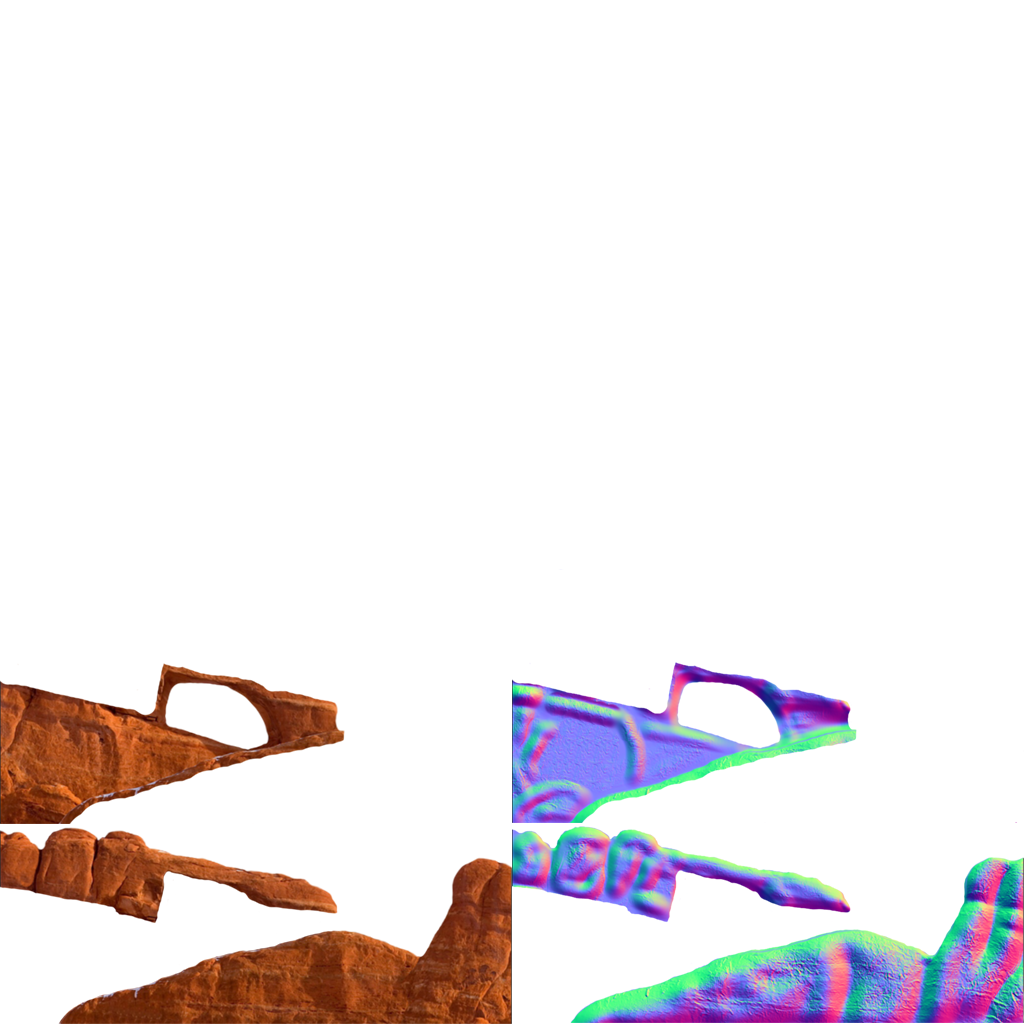
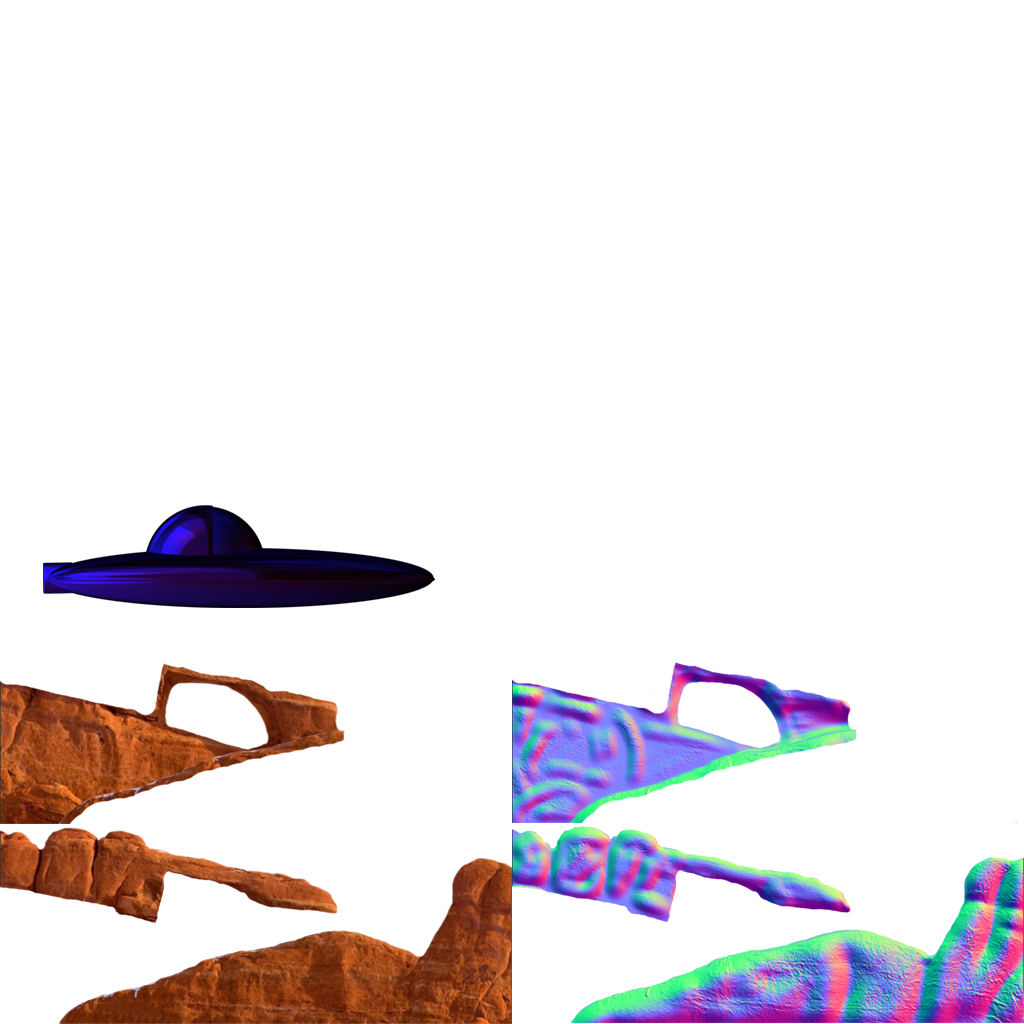
Saucer fly OK

Changed region(s): [[0.0312, 0.4688, 0.4375, 0.5938], [0.5312, 0.6562, 0.625, 0.7812]]

diff --git a/core/src/com/thommil/softbuddy/levels/mountain/Level01.java b/core/src/com/thommil/softbuddy/levels/mountain/Level01.java
@@ -11,6 +11,7 @@ import com.badlogic.gdx.utils.Array;
 import com.thommil.libgdx.runtime.Runtime;
 import com.thommil.libgdx.runtime.actor.Actor;
 import com.thommil.libgdx.runtime.actor.graphics.BitmapFontActor;
+import com.thommil.libgdx.runtime.actor.graphics.SpriteActor;
 import com.thommil.libgdx.runtime.actor.graphics.StaticActor;
 import com.thommil.libgdx.runtime.actor.physics.StaticBodyActor;
 import com.thommil.libgdx.runtime.graphics.TextureSet;
@@ -30,13 +31,25 @@ public class Level01 extends Level{
 
     private static final String RESOURCES_FILE = "chapters/mountain/level01/resources.json";
 
+    protected final static String FLYINGSAUCER_IMAGE_NAME = "flying_saucer";
+
     private float levelWorldWidth;
     private float levelWorldHeight;
 
     private float time;
 
+    private final static int STATE_INIT = 0;
+    private final static int STATE_TITLE = 1;
+    private final static int STATE_SCROLL_DOWN = 2;
+    private final static int STATE_SAUCER_FLY = 3;
+    private final static int STATE_SUNRISE = 4;
+    private final static int STATE_SAUCER_CRASH = 5;
+    private final static int STATE_PLAY = 6;
+
+    private int state = STATE_TITLE;
+
     private static final float TITLE_FADE_START = 2f;
-    private static final float TITLE_FADE_PAUSE = TITLE_FADE_START + 2f;
+    private static final float TITLE_FADE_PAUSE = TITLE_FADE_START + 1f;
     private static final float TITLE_FADE_END = TITLE_FADE_PAUSE + 1f;
 
     private static final float SCROLL_DOWN_START = TITLE_FADE_END;
@@ -47,16 +60,16 @@ public class Level01 extends Level{
     private static final float[] SAUCER_FLY_AMBIENT_COLOR = new float[]{0.3f, 0.3f, 0.3f, 1f};
     private static final float[] SAUCER_FLY_SPOT_COLOR = new float[]{0,0,1f,1f};
     private static final float[] SAUCER_FLY_LEFT = new float[]{-20f, 3f};
-    private static final float[] SAUCER_FLY_RIGHT = new float[]{20, 3f};
+    private static final float[] SAUCER_FLY_RIGHT = new float[]{20f, 3f};
     private static final float[] SAUCER_FLY_SPOT_FALLOFF = new float[]{0.01f,0.1f,1f};
-    private static final float SAUCER_FLY_END = SAUCER_FLY_START + 1f;
+    private static final float SAUCER_FLY_END = SAUCER_FLY_START + 5f;
 
     private static final float SUNRISE_START = SAUCER_FLY_END + 2f;
     private static final float[] SUNRISE_AMBIENT_COLOR_START = new float[]{0.3f, 0.3f, 0.3f, 1f};
     private static final float[] SUNRISE_AMBIENT_COLOR_END = new float[]{0.6f, 0.6f, 0.6f, 1f};
-    private static final float[] SUNRISE_SPOT_COLOR = new float[]{1f,0.9f,1f,1f};
-    private static final float[] SUNRISE_BOTTOM = new float[]{100f, -20f};
-    private static final float[] SUNRISE_TOP = new float[]{-20f, 20f};
+    private static final float[] SUNRISE_SPOT_COLOR = new float[]{1f,1f,1f,1f};
+    private static final float[] SUNRISE_BOTTOM = new float[]{40f, -10f};
+    private static final float[] SUNRISE_TOP = new float[]{-40f, 30f};
     private static final float[] SUNRISE_SPOT_FALLOFF = new float[]{1f,0f,0f};
     private static final float SUNRISE_END = SUNRISE_START + 10f;
 
@@ -68,13 +81,24 @@ public class Level01 extends Level{
     private Vector2 tmpVectorFrom;
     private Vector2 tmpVectorTo;
 
+    //Tick
     private Layer ticklayer;
+
+    //Sky
     private SkyLayer skyLayer;
-    private BitmapFontBatchLayer bitmapFontBatchLayer;
+
+    //Background & Foreground
     private SpriteBatchLayer backgroundLayer;
     private SpriteBatchLayer foregroundLayer;
-
     private IntroRenderer introRenderer;
+
+    //Sprites
+    private SpriteBatchLayer saucerLayer;
+    private SpriteActor flyingSaucerActor;
+
+    //HUD
+    private BitmapFontBatchLayer bitmapFontBatchLayer;
+    private BitmapFontActor titleFontActor;
 
     @Override
     public String getResourcesPath() {
@@ -83,6 +107,7 @@ public class Level01 extends Level{
 
     @Override
     public void reset() {
+        this.state = STATE_INIT;
         this.time = 0;
         this.tick(0);
     }
@@ -124,22 +149,12 @@ public class Level01 extends Level{
         this.introRenderer = new IntroRenderer(1);
         this.buildBackground();
         this.buildForeground();
+        this.buildHUD();
     }
 
     protected void buildBackground() {
         this.skyLayer = new SkyLayer(Runtime.getInstance().getViewport(), true, SkyLayer.MIDNIGHT, -this.levelWorldWidth/2, -this.levelWorldHeight/4, this.levelWorldWidth, this.levelWorldHeight,this.levelWorldHeight/4);
         Runtime.getInstance().addLayer(this.skyLayer);
-
-        final SharedResources.LabelDef titleLableDef = this.softBuddyGameAPI.getSharedResources().getLabelDef(Chapter.TITLE_LABEL);
-        final BitmapFontActor titleFontActor = new BitmapFontActor(0, this.assetManager.get(titleLableDef.assetName, BitmapFont.class));
-        titleFontActor.setText(this.chapterResources.getChapterDef().title);
-        tmpVectorFrom.set(titleLableDef.position[0], titleLableDef.position[1]);
-        ViewportLayout.adaptToScreen(SoftBuddyGameAPI.REFERENCE_SCREEN, tmpVectorFrom);
-        titleFontActor.setPosition(tmpVectorFrom.x, tmpVectorFrom.y);
-        titleFontActor.getBitmapFont().setColor(titleLableDef.color[0],titleLableDef.color[1],titleLableDef.color[2],0);
-        this.bitmapFontBatchLayer = new BitmapFontBatchLayer(Runtime.getInstance().getViewport(), 1);
-        this.bitmapFontBatchLayer.addActor(titleFontActor);
-        Runtime.getInstance().addLayer(this.bitmapFontBatchLayer);
 
         this.backgroundLayer = new SpriteBatchLayer(Runtime.getInstance().getViewport(),1,this.introRenderer);
         final RubeLoader.ImageDef backgroundImageDef = this.levelResources.getImageDefinition(BACKGROUND_IMAGE_NAME);
@@ -189,22 +204,43 @@ public class Level01 extends Level{
 
         this.foregroundLayer.addActor(foregroundStaticBodyActor);
         Runtime.getInstance().addLayer(this.foregroundLayer);
+
+        this.saucerLayer = new SpriteBatchLayer(Runtime.getInstance().getViewport(),1);
+        final RubeLoader.ImageDef flyingSaucerImageDef = this.levelResources.getImageDefinition(FLYINGSAUCER_IMAGE_NAME);
+        this.flyingSaucerActor = new SpriteActor(FLYINGSAUCER_IMAGE_NAME.hashCode(), new TextureSet(this.assetManager.get(flyingSaucerImageDef.path, Texture.class))
+                ,flyingSaucerImageDef.regionX
+                ,flyingSaucerImageDef.regionY
+                ,flyingSaucerImageDef.regionWidth
+                ,flyingSaucerImageDef.regionHeight);
+        flyingSaucerActor.setSize(flyingSaucerImageDef.width, flyingSaucerImageDef.height);
+        flyingSaucerActor.setOriginCenter();
+        Runtime.getInstance().addLayer(this.saucerLayer);
     }
 
+    private void buildHUD(){
+        final SharedResources.LabelDef titleLableDef = this.softBuddyGameAPI.getSharedResources().getLabelDef(Chapter.TITLE_LABEL);
+        this.titleFontActor = new BitmapFontActor(0, this.assetManager.get(titleLableDef.assetName, BitmapFont.class));
+        titleFontActor.setText(this.chapterResources.getChapterDef().title);
+        tmpVectorFrom.set(titleLableDef.position[0], titleLableDef.position[1]);
+        ViewportLayout.adaptToScreen(SoftBuddyGameAPI.REFERENCE_SCREEN, tmpVectorFrom);
+        titleFontActor.setPosition(tmpVectorFrom.x, tmpVectorFrom.y);
+        titleFontActor.getBitmapFont().setColor(titleLableDef.color[0],titleLableDef.color[1],titleLableDef.color[2],0);
+        this.bitmapFontBatchLayer = new BitmapFontBatchLayer(Runtime.getInstance().getViewport(), 1);
+        this.bitmapFontBatchLayer.addActor(titleFontActor);
+        Runtime.getInstance().addLayer(this.bitmapFontBatchLayer);
+    }
 
     @Override
     public void dispose() {
+        Runtime.getInstance().removeLayer(this.ticklayer);
+        Runtime.getInstance().removeLayer(this.skyLayer);
         Runtime.getInstance().removeLayer(this.foregroundLayer);
         Runtime.getInstance().removeLayer(this.backgroundLayer);
+        Runtime.getInstance().removeLayer(this.saucerLayer);
         Runtime.getInstance().removeLayer(this.bitmapFontBatchLayer);
-        Runtime.getInstance().removeLayer(this.skyLayer);
-        Runtime.getInstance().removeLayer(this.ticklayer);
+
         this.ticklayer.dispose();
         this.skyLayer.dispose();
-        for(final Actor actor : this.bitmapFontBatchLayer.listActors()){
-            actor.dispose();
-        }
-        this.bitmapFontBatchLayer.dispose();
         for(final Actor actor : this.backgroundLayer.listActors()){
             actor.dispose();
         }
@@ -213,101 +249,117 @@ public class Level01 extends Level{
             actor.dispose();
         }
         this.foregroundLayer.dispose();
+        for(final Actor actor : this.saucerLayer.listActors()){
+            actor.dispose();
+        }
         this.introRenderer.dispose();
+        this.saucerLayer.dispose();
+        for(final Actor actor : this.bitmapFontBatchLayer.listActors()){
+            actor.dispose();
+        }
+        this.bitmapFontBatchLayer.dispose();
+
         this.ticklayer = null;
         this.skyLayer = null;
-        this.bitmapFontBatchLayer = null;
         this.backgroundLayer = null;
         this.foregroundLayer = null;
+        this.saucerLayer = null;
+        this.bitmapFontBatchLayer = null;
+
         this.introRenderer = null;
+        this.flyingSaucerActor = null;
         this.tmpVectorFrom = null;
         this.tmpVectorTo = null;
     }
 
     public void tick(float deltaTime){
         time += deltaTime;
-
-        //Reset
-        if(deltaTime == 0){
-            this.introRenderer.setAmbiantColor(SAUCER_FLY_AMBIENT_COLOR[0],SAUCER_FLY_AMBIENT_COLOR[1],SAUCER_FLY_AMBIENT_COLOR[2]);
-            this.introRenderer.setLightColor(SAUCER_FLY_SPOT_COLOR[0],SAUCER_FLY_SPOT_COLOR[1],SAUCER_FLY_SPOT_COLOR[2]);
-            this.introRenderer.switchLight(false);
-        }
-
-        // Intro mode
-        if(time < PLAY_START){
-            //Scroll state
-            if(time < SCROLL_DOWN_START){
-                if(this.bitmapFontBatchLayer.isHidden()) {
-                    this.bitmapFontBatchLayer.show();
-                }
+        switch(state){
+            case STATE_INIT :
+                this.introRenderer.setAmbiantColor(SAUCER_FLY_AMBIENT_COLOR[0],SAUCER_FLY_AMBIENT_COLOR[1],SAUCER_FLY_AMBIENT_COLOR[2]);
+                this.introRenderer.setLightColor(SAUCER_FLY_SPOT_COLOR[0],SAUCER_FLY_SPOT_COLOR[1],SAUCER_FLY_SPOT_COLOR[2]);
+                this.titleFontActor.getBitmapFont().getColor().a = 0f;
+                this.bitmapFontBatchLayer.addActor(this.titleFontActor);
+                state = STATE_TITLE;
+                this.tick(0);
+                break;
+            case STATE_TITLE :
                 if(time < TITLE_FADE_START){
-                    final float fadeTime = 1- ((TITLE_FADE_START - time) / TITLE_FADE_START);
-                    ((BitmapFontActor)this.bitmapFontBatchLayer.getActor(0)).getBitmapFont().getColor().a = fadeTime;
-                }
-                else if(time > TITLE_FADE_PAUSE){
-                    final float fadeTime = ((TITLE_FADE_END - time) / (TITLE_FADE_END - TITLE_FADE_PAUSE));
-                    ((BitmapFontActor)this.bitmapFontBatchLayer.getActor(0)).getBitmapFont().getColor().a = fadeTime;
-                }
-                Runtime.getInstance().getViewport().getCamera().position.set(0,levelWorldWidth/2,0);
-                Runtime.getInstance().getViewport().apply();
-            }
-            else if(time < SCROLL_DOWN_END){
-                if(!this.bitmapFontBatchLayer.isHidden()) {
-                    this.bitmapFontBatchLayer.hide();
-                }
-                final float scrollTime = ((SCROLL_DOWN_END - time) / (SCROLL_DOWN_END - SCROLL_DOWN_START));
-                this.skyLayer.setStarsOffset(0,this.skyLayer.getStarsYOffset()-SCROLL_DOWN_STEP);
-                Runtime.getInstance().getViewport().getCamera().position.set(0,(levelWorldWidth/2 * scrollTime),0);
-                Runtime.getInstance().getViewport().apply();
-            }
-            else{
-                if(Runtime.getInstance().getViewport().getCamera().position.y != 0){
-                    Runtime.getInstance().getViewport().getCamera().position.set(0,0,0);
+                    final float fadeTime = 1f - ((TITLE_FADE_START - time) / TITLE_FADE_START);
+                    this.titleFontActor.getBitmapFont().getColor().a = fadeTime;
+                    Runtime.getInstance().getViewport().getCamera().position.set(0,levelWorldWidth/2,0);
                     Runtime.getInstance().getViewport().apply();
                 }
-
-                //Fly state
-                if(time < SAUCER_FLY_END) {
+                else if(time >= TITLE_FADE_PAUSE){
+                    if(time < SCROLL_DOWN_START) {
+                        final float fadeTime = ((TITLE_FADE_END - time) / (TITLE_FADE_END - TITLE_FADE_PAUSE));
+                        this.titleFontActor.getBitmapFont().getColor().a = fadeTime;
+                        Runtime.getInstance().getViewport().getCamera().position.set(0, levelWorldWidth / 2, 0);
+                        Runtime.getInstance().getViewport().apply();
+                    }
+                    else{
+                        this.bitmapFontBatchLayer.removeActor(this.titleFontActor);
+                        state = STATE_SCROLL_DOWN;
+                    }
+                }
+                break;
+            case STATE_SCROLL_DOWN :
+                if(time < SCROLL_DOWN_END){
+                    final float scrollTime = ((SCROLL_DOWN_END - time) / (SCROLL_DOWN_END - SCROLL_DOWN_START));
+                    this.skyLayer.setStarsOffset(0,this.skyLayer.getStarsYOffset()-SCROLL_DOWN_STEP);
+                    Runtime.getInstance().getViewport().getCamera().position.set(0,(levelWorldWidth/2 * scrollTime),0);
+                    Runtime.getInstance().getViewport().apply();
+                }
+                else{
+                    Runtime.getInstance().getViewport().getCamera().position.set(0, 0, 0);
+                    Runtime.getInstance().getViewport().apply();
+                    flyingSaucerActor.setPosition(-1000,-1000);
+                    this.saucerLayer.addActor(this.flyingSaucerActor);
+                    this.introRenderer.switchLight(false);
+                    this.introRenderer.setFallOff(SAUCER_FLY_SPOT_FALLOFF[0], SAUCER_FLY_SPOT_FALLOFF[1], SAUCER_FLY_SPOT_FALLOFF[2]);
+                    state = STATE_SAUCER_FLY;
+                }
+                break;
+            case STATE_SAUCER_FLY :
+                if(time <= SAUCER_FLY_END) {
                     if (time > SAUCER_FLY_START) {
                         this.introRenderer.switchLight(true);
-                        this.introRenderer.setFallOff(SAUCER_FLY_SPOT_FALLOFF[0], SAUCER_FLY_SPOT_FALLOFF[1], SAUCER_FLY_SPOT_FALLOFF[2]);
-                        final float delta = 1 - ((SAUCER_FLY_END - time) / (SAUCER_FLY_END - SAUCER_FLY_START));
+                        final float delta = 1f - ((SAUCER_FLY_END - time) / (SAUCER_FLY_END - SAUCER_FLY_START));
                         this.tmpVectorFrom.set(SAUCER_FLY_LEFT[0], SAUCER_FLY_LEFT[1]);
                         this.tmpVectorTo.set(SAUCER_FLY_RIGHT[0], SAUCER_FLY_RIGHT[1]);
                         this.tmpVectorFrom.lerp(this.tmpVectorTo, delta);
+                        this.flyingSaucerActor.setPosition(this.tmpVectorFrom.x + 3f, this.tmpVectorFrom.y);
                         Runtime.getInstance().getViewport().project(this.tmpVectorFrom);
                         this.introRenderer.setLightPosition((int)this.tmpVectorFrom.x, (int)this.tmpVectorFrom.y);
                     }
                 }
                 else{
-                    //Sunrise state
-                    if(time < SUNRISE_END) {
-                        if(time > SUNRISE_START) {
-                            this.introRenderer.switchLight(true);
-                            final float delta = 1 - ((SUNRISE_END - time) / (SUNRISE_END - SUNRISE_START));
-                            this.introRenderer.setFallOff(SUNRISE_SPOT_FALLOFF[0], SUNRISE_SPOT_FALLOFF[1], SUNRISE_SPOT_FALLOFF[2]);
-                            this.tmpVectorFrom.set(SUNRISE_BOTTOM[0], SUNRISE_BOTTOM[1]);
-                            this.tmpVectorTo.set(SUNRISE_TOP[0], SUNRISE_TOP[1]);
-                            this.tmpVectorFrom.lerp(this.tmpVectorTo, delta);
-                            this.introRenderer.setLightColor(SUNRISE_SPOT_COLOR[0] * delta, SUNRISE_SPOT_COLOR[1] * delta, SUNRISE_SPOT_COLOR[2] * delta);
-                            this.introRenderer.setAmbiantColor(SUNRISE_AMBIENT_COLOR_START[0] + ((SUNRISE_AMBIENT_COLOR_END[0] - SUNRISE_AMBIENT_COLOR_START[0]) * delta)
-                                    , SUNRISE_AMBIENT_COLOR_START[1] + ((SUNRISE_AMBIENT_COLOR_END[1] - SUNRISE_AMBIENT_COLOR_START[1]) * delta)
-                                    , SUNRISE_AMBIENT_COLOR_START[2] + ((SUNRISE_AMBIENT_COLOR_END[2] - SUNRISE_AMBIENT_COLOR_START[2]) * delta));
-                            Runtime.getInstance().getViewport().project(this.tmpVectorFrom);
-                            this.introRenderer.setLightPosition((int) this.tmpVectorFrom.x, (int) this.tmpVectorFrom.y);
-                            this.skyLayer.setTime(delta);
-                        }
-                    }
-                    else{
-                        //Saucer crash
-                        if(time < SAUCER_CRASH_END) {
-
-                        }
+                    this.saucerLayer.removeActor(this.flyingSaucerActor);
+                    this.introRenderer.switchLight(false);
+                    this.introRenderer.setFallOff(SUNRISE_SPOT_FALLOFF[0], SUNRISE_SPOT_FALLOFF[1], SUNRISE_SPOT_FALLOFF[2]);
+                    state = STATE_SUNRISE;
+                }
+                break;
+            case STATE_SUNRISE :
+                if(time <= SUNRISE_END) {
+                    if(time > SUNRISE_START) {
+                        this.introRenderer.switchLight(true);
+                        final float delta = 1 - ((SUNRISE_END - time) / (SUNRISE_END - SUNRISE_START));
+                        this.tmpVectorFrom.set(SUNRISE_BOTTOM[0], SUNRISE_BOTTOM[1]);
+                        this.tmpVectorTo.set(SUNRISE_TOP[0], SUNRISE_TOP[1]);
+                        this.tmpVectorFrom.lerp(this.tmpVectorTo, delta);
+                        this.introRenderer.setLightColor(SUNRISE_SPOT_COLOR[0] * delta, SUNRISE_SPOT_COLOR[1] * delta, SUNRISE_SPOT_COLOR[2] * delta);
+                        this.introRenderer.setAmbiantColor(SUNRISE_AMBIENT_COLOR_START[0] + ((SUNRISE_AMBIENT_COLOR_END[0] - SUNRISE_AMBIENT_COLOR_START[0]) * delta)
+                                , SUNRISE_AMBIENT_COLOR_START[1] + ((SUNRISE_AMBIENT_COLOR_END[1] - SUNRISE_AMBIENT_COLOR_START[1]) * delta)
+                                , SUNRISE_AMBIENT_COLOR_START[2] + ((SUNRISE_AMBIENT_COLOR_END[2] - SUNRISE_AMBIENT_COLOR_START[2]) * delta));
+                        Runtime.getInstance().getViewport().project(this.tmpVectorFrom);
+                        this.introRenderer.setLightPosition((int) this.tmpVectorFrom.x, (int) this.tmpVectorFrom.y);
+                        this.skyLayer.setTime(delta);
                     }
                 }
-            }
+                break;
+            case STATE_SAUCER_CRASH :
+                break;
         }
     }
-    int pos=-1000;
 }

diff --git a/core/src/com/thommil/softbuddy/levels/Level.java b/core/src/com/thommil/softbuddy/levels/Level.java
@@ -13,7 +13,6 @@ public abstract class Level implements Disposable, InputProcessor{
     protected final static String FOREGROUND_BODY_NAME = "foreground";
     protected final static String FOREGROUND_IMAGE_NAME = "foreground";
 
-
     protected LevelResources levelResources;
     protected ChapterResources chapterResources;
     protected SoftBuddyGameAPI softBuddyGameAPI;
